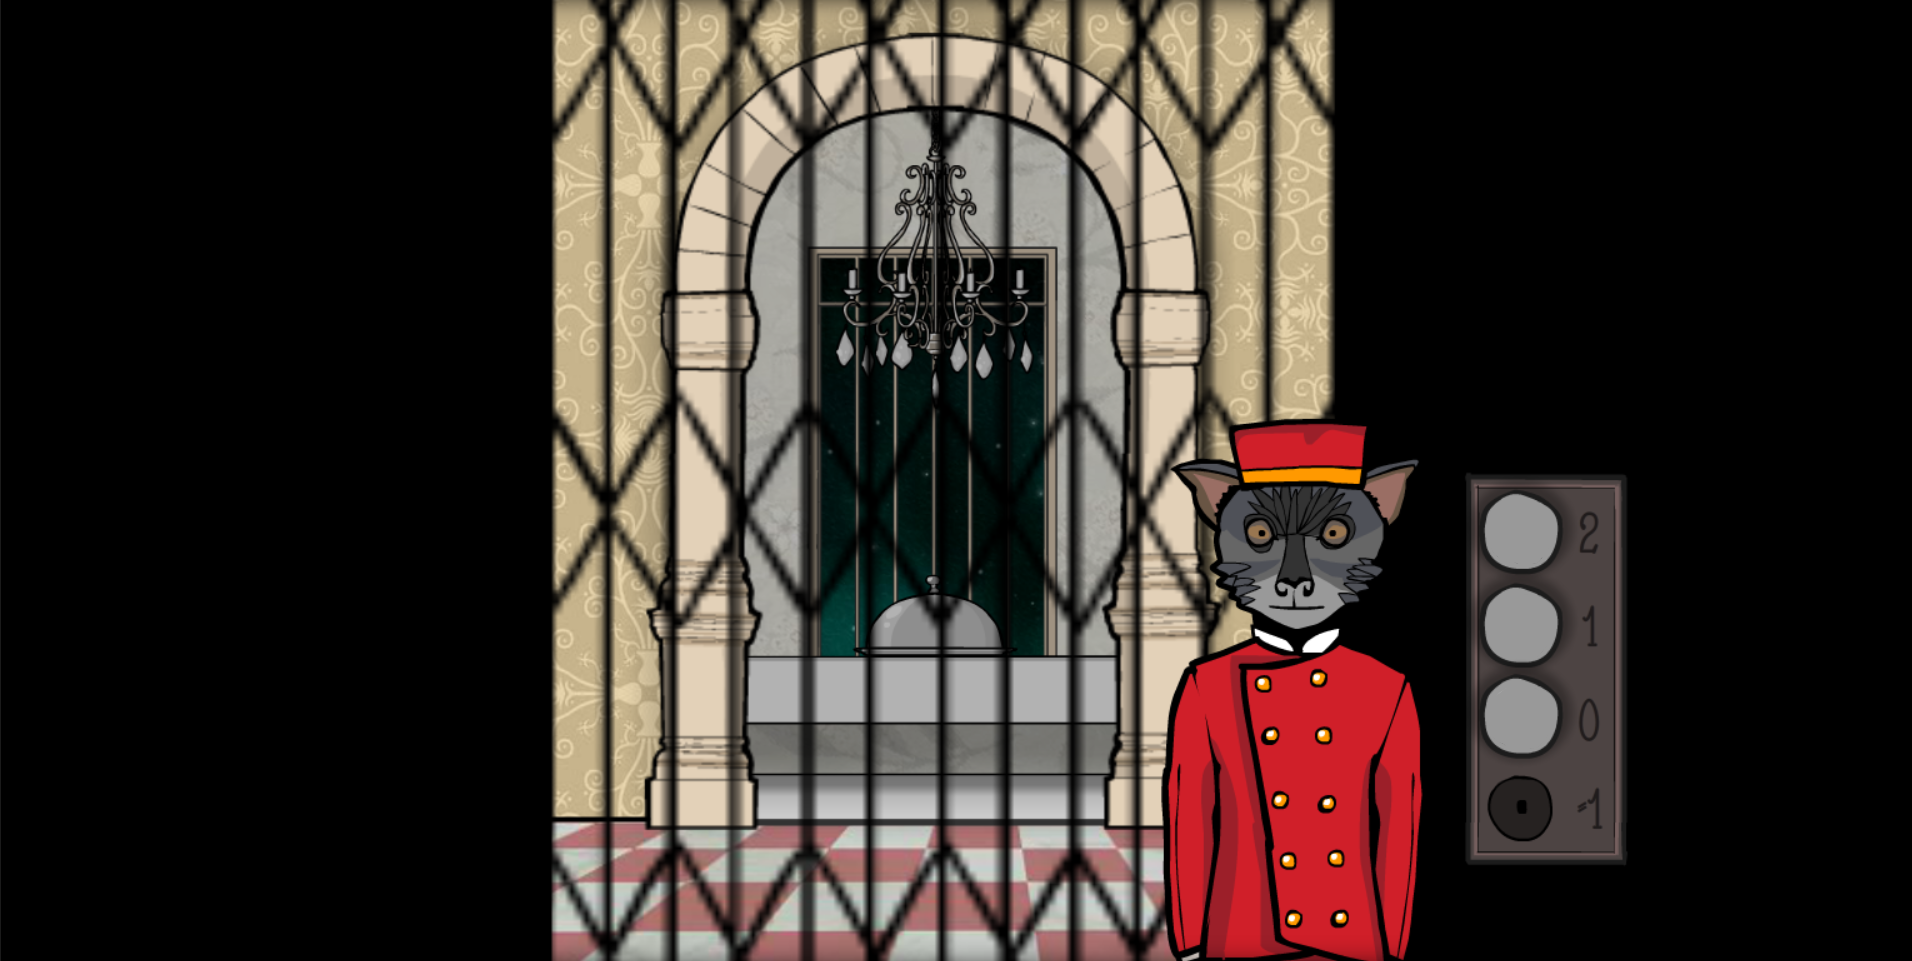
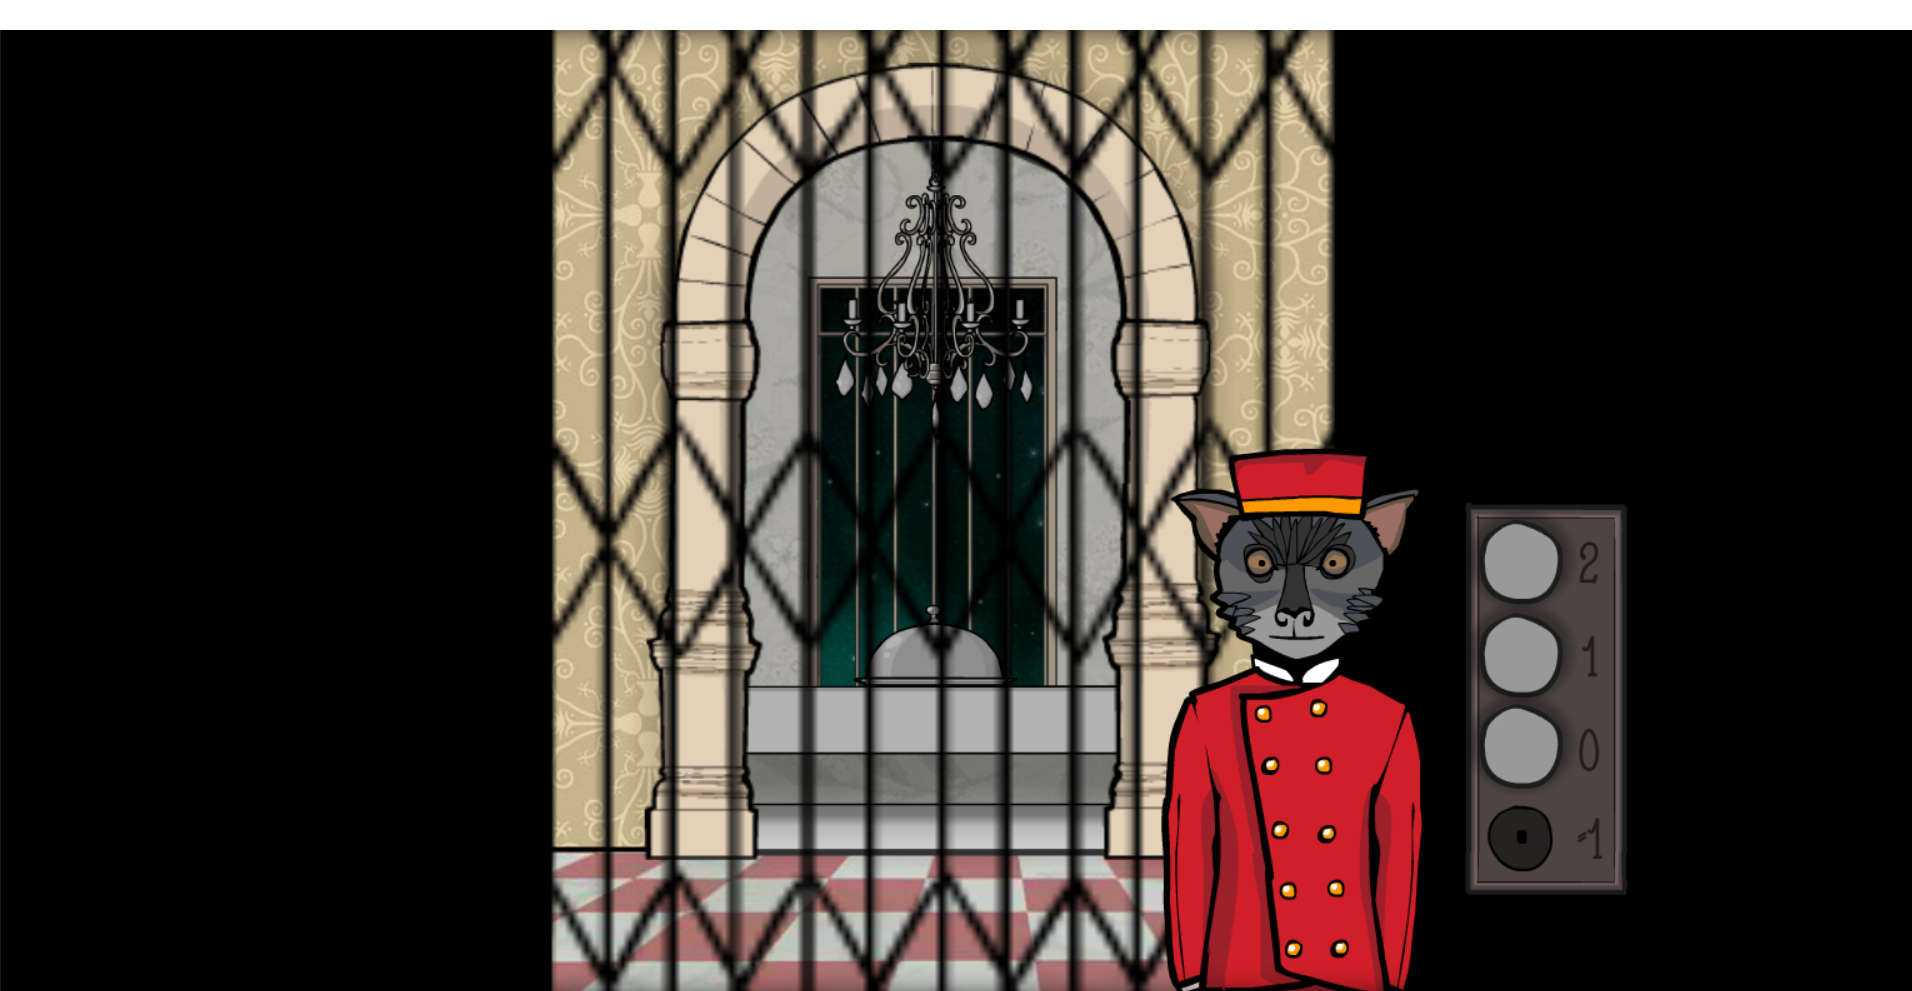
меню и игра соеденены

diff --git a/AllClasses.py b/AllClasses.py
@@ -134,22 +134,26 @@ class BaseLevelClass:
         self.objs_on_level = objs_on_level
         self.num_of_screen = 0
         self.display = display
-        self.start_background_music()
+        #self.start_background_music()
         self.n = 1
         self.transform = transform
+        fullname = os.path.join('Music', self.fon_music[0])
+        self.mus = pygame.mixer.Sound(fullname)
+        self.music_can = True
 
     def start_background_music(self):
-        fullname = os.path.join('Music', self.fon_music[0])
-        mus = pygame.mixer.Sound(fullname)
-        mus.set_volume(0.25)
-        mus.play(-1)
+        self.mus.set_volume(0.25)
+        self.mus.play(-1)
+
+    def stop_background_music(self):
+        self.mus.stop()
 
     def draw_level(self):
         self.all_sprites = pygame.sprite.Group()
         background = os.path.join('Images', self.wallpapers[self.num_of_screen])
         image = pygame.image.load(background)
         if self.transform:
-            image1 = pygame.transform.scale(image, (1366, 768))
+            image1 = pygame.transform.scale(image, (1980, 1080))
         else:
             image1 = image
         background_rect = image1.get_rect()
@@ -574,13 +578,23 @@ class Safe(Sprite):
 
 
 class LevelManager:
-    def __init__(self, levels):
+    def __init__(self, levels, inits):
         self.levels = levels
         self.current_level = self.levels[0]
         self.level_count = 0
+        self.inits = inits
+        self.current_level.start_background_music()
+        self.can_music = self.current_level.music_can
+        print(self.can_music)
 
     def change_level(self):
+        self.current_level.mus.stop()
         self.level_count += 1
+        self.can_music = self.current_level.music_can
+        self.current_level = self.levels[self.level_count]
+        if self.can_music:
+            self.current_level.start_background_music()
+        self.init_project()
 
     def draw(self):
         self.current_level.draw_level()
@@ -588,3 +602,9 @@ class LevelManager:
     def init(self, l):
         for i in l:
             i.function = self.change_level
+
+    def init_project(self):
+        if self.level_count == 0:
+            self.inits[0]()
+        else:
+            self.inits[1]()

diff --git a/main.py b/main.py
@@ -1,0 +1,21 @@
+import pygame
+from init_project import main_game, init
+from init_menu import main_menu, init_menu, start
+from AllClasses import LevelManager
+
+x = LevelManager([main_menu, main_game], [init_menu, init])
+x.init_project()
+x.current_level.draw_level()
+x.init([start])
+clock = pygame.time.Clock()
+if __name__ == '__main__':
+    running = True
+    while running:
+        for event in pygame.event.get():
+            if event.type == pygame.QUIT:
+                running = False
+            x.current_level.all_sprites.update(event)
+        x.current_level.draw_level()
+        pygame.display.flip()
+        clock.tick(55)
+    pygame.quit()

diff --git a/init_menu.py b/init_menu.py
@@ -8,9 +8,12 @@ def stop_music():
     if sound_music:
         pygame.mixer.pause()
         sound_music = False
+        main_menu.music_can = False
+
     else:
         pygame.mixer.unpause()
         sound_music = True
+        main_menu.music_can = True
 
 
 def stop_sound():
